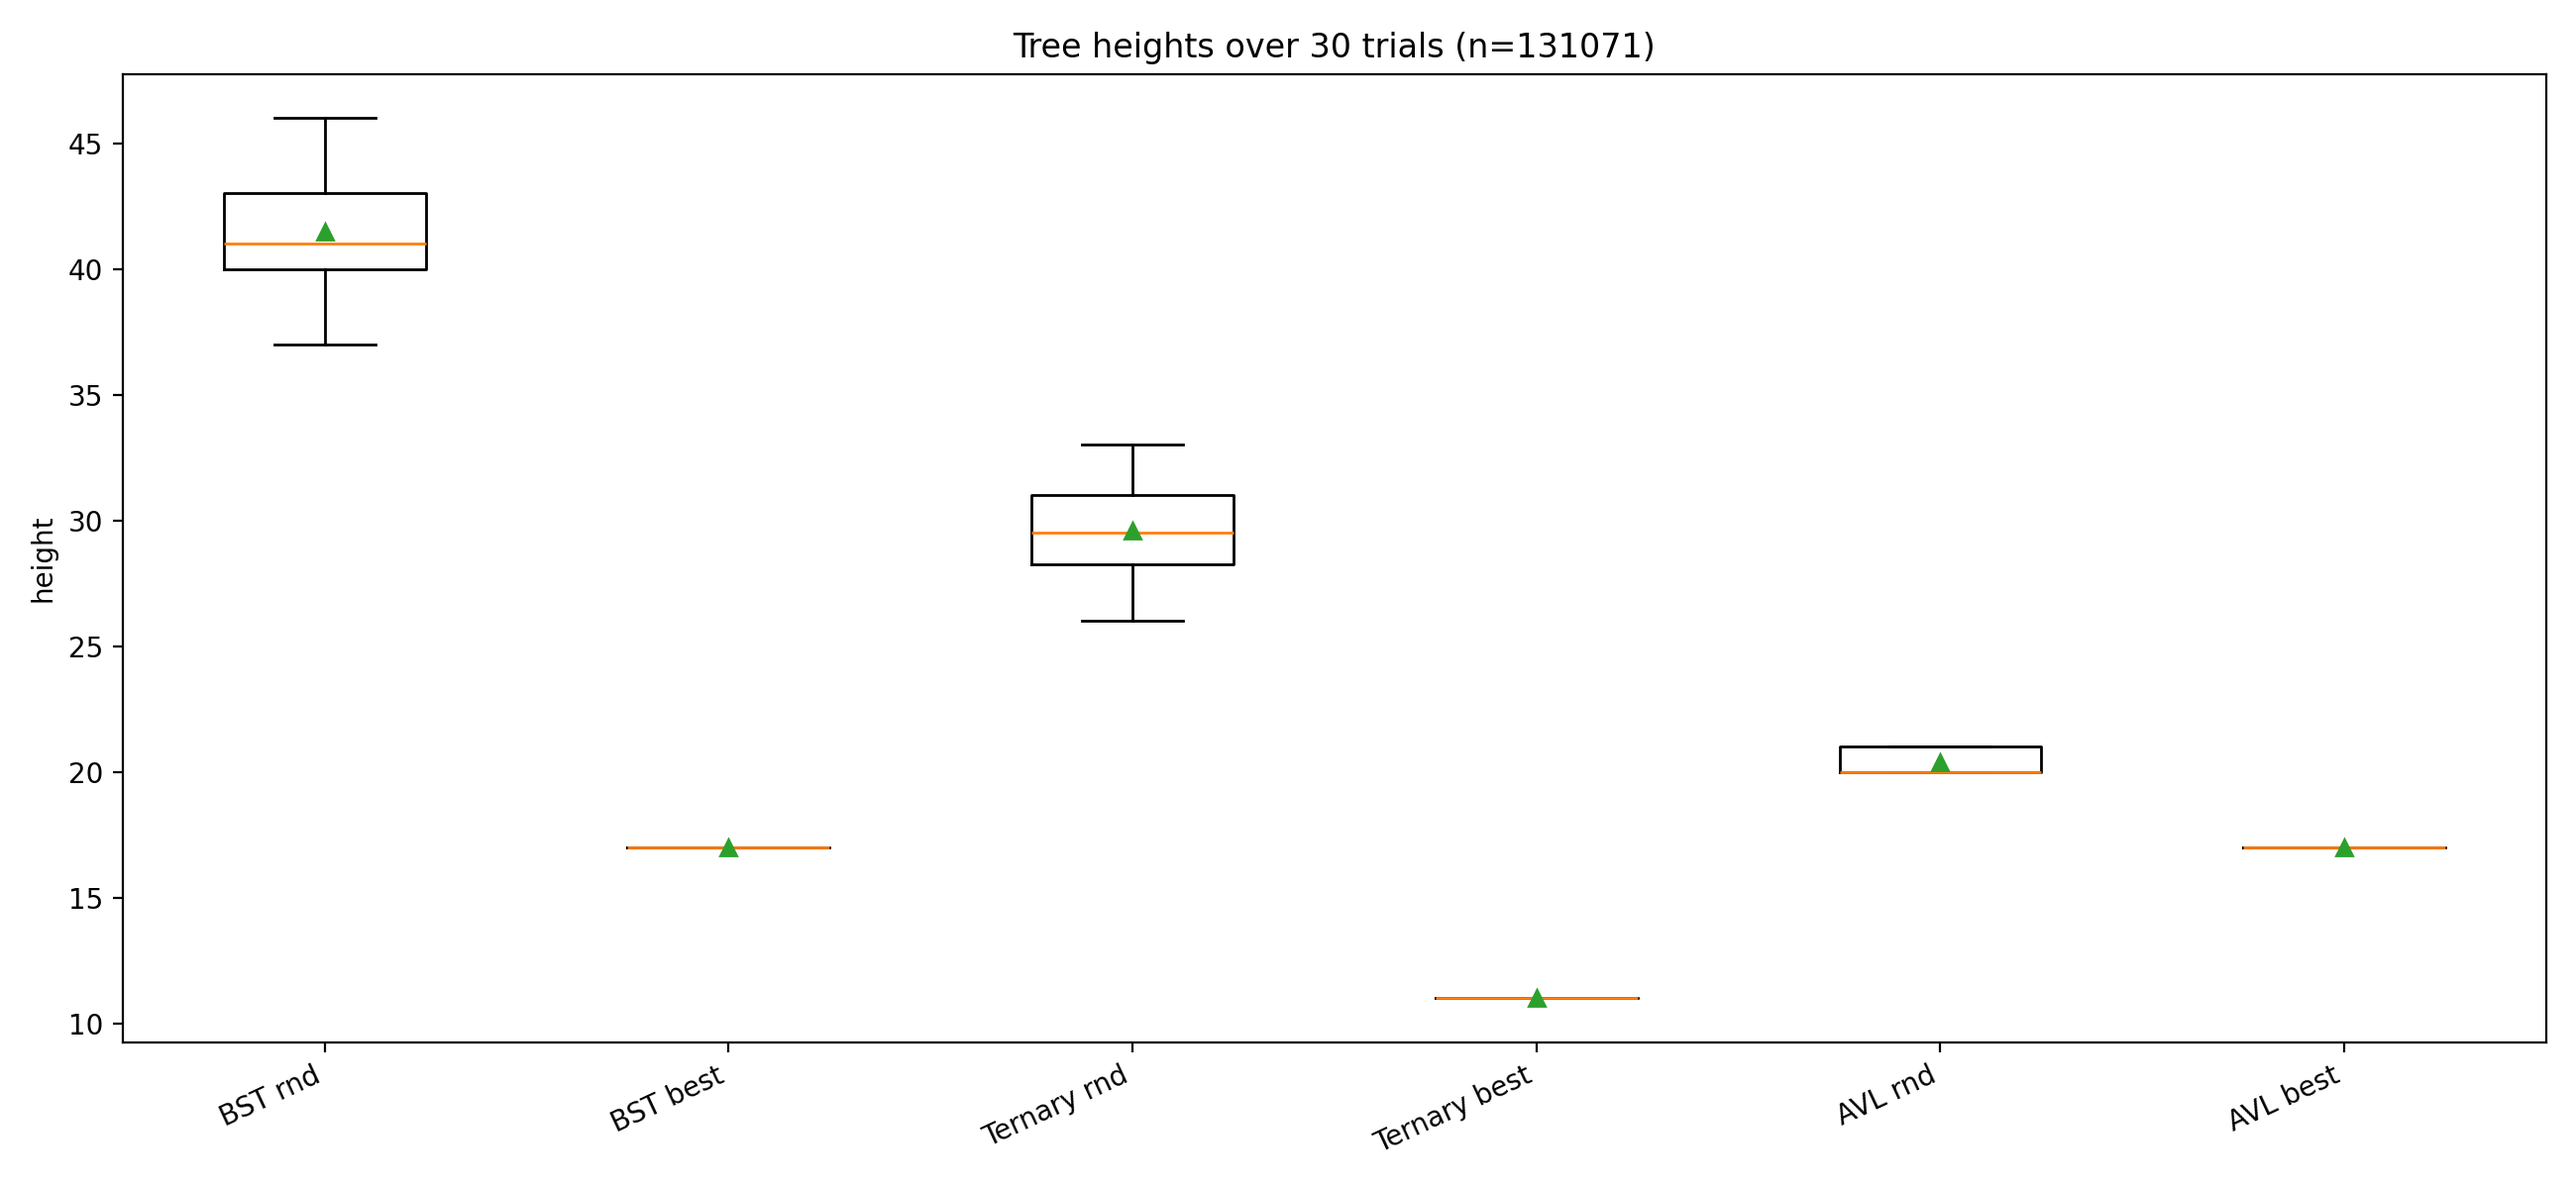
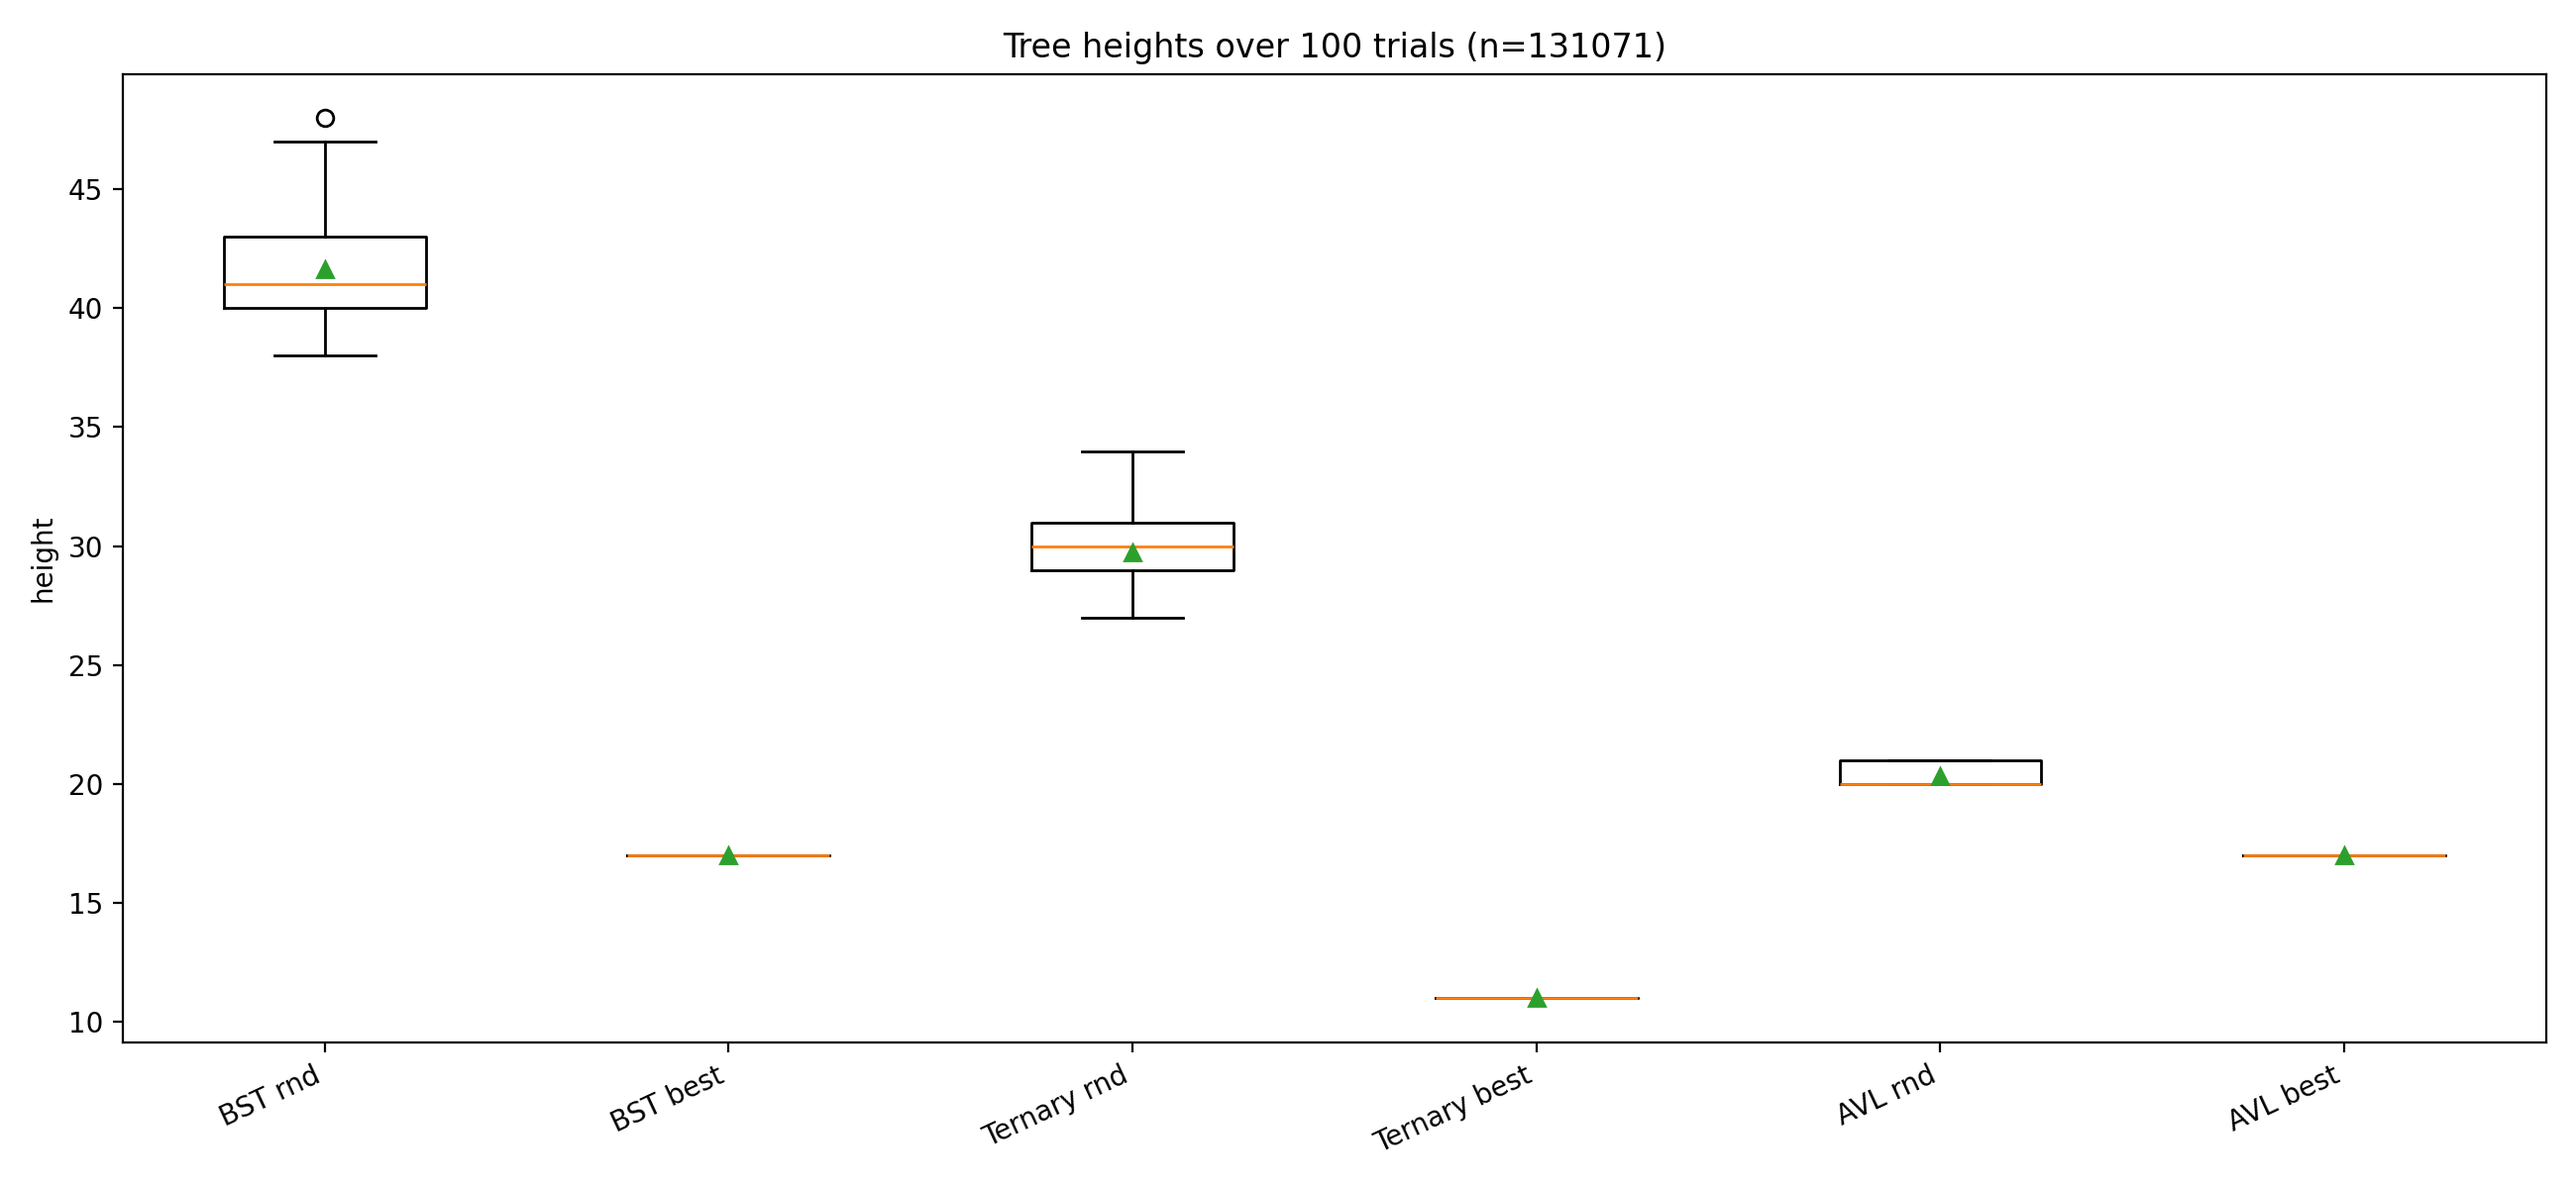
feat: update benchmark CSVs and correct results
Numbers shift, rows align
fix measurement drift and output formatting
benchmarks reflect new runs

diff --git a/assignment_1/main.py b/assignment_1/main.py
@@ -127,7 +127,7 @@ if __name__ == "__main__":
                                 ('stalin', oSorter.stalinSort),
                                 ('communizm', oSorter.communizmSort),
                                 ('heap', oSorter.heapSort)]:
-                    avg = measure(func, n)
+                    avg = measure(func, n, reps = 100)
                     results[name].append(avg)
                     print(f"{name} n={n}: {avg:.6f} s")
            
@@ -263,7 +263,7 @@ if __name__ == "__main__":
                 for name, func in [('1-pivot', oSorter.quickSort),
                                 ('2-pivot', oSorter.dualPivotQuickSort),
                                 ('3-pivot', oSorter.triplePivotQuickSort)]:
-                    avg = measure(func, n)
+                    avg = measure(func, n, reps = 100)
                     results[name].append(avg)
                     print(f"{name} n={n}: {avg:.6f} s")
            

diff --git a/assignment_2/main.py b/assignment_2/main.py
@@ -145,7 +145,7 @@ def boxplot(metric_to_values, title, ylabel, path):
 
 
 if __name__ == "__main__":
-    trials = 30
+    trials = 100
     m = 17
     n = 2**m - 1
 
